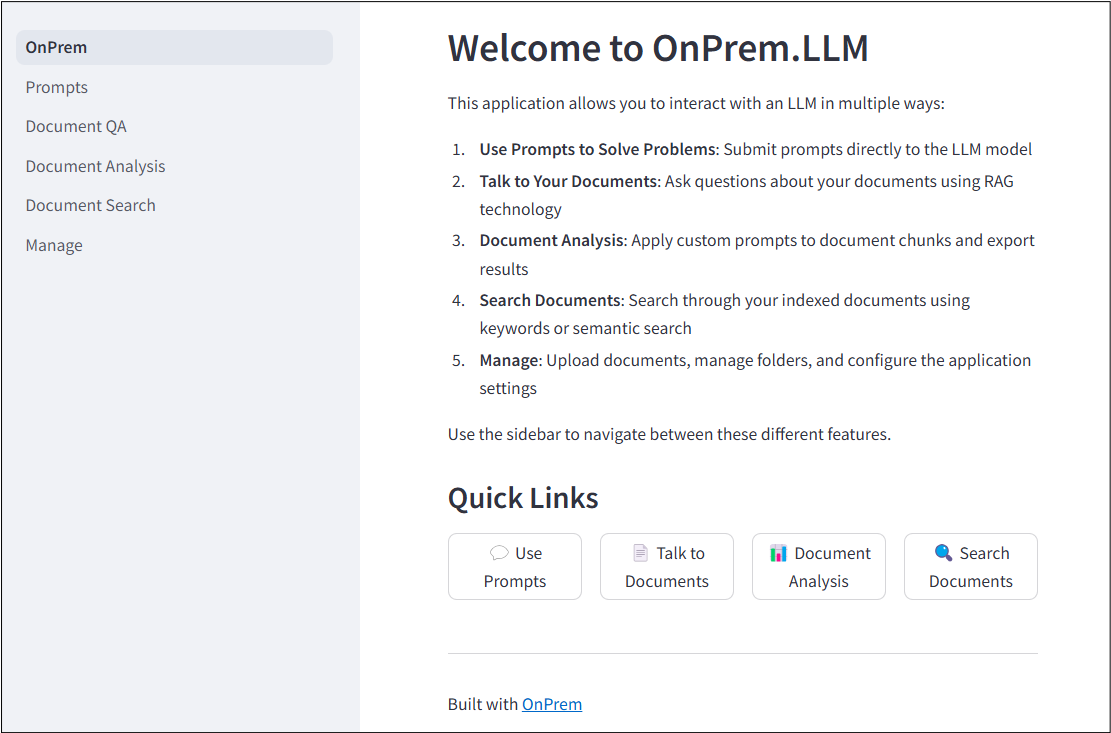
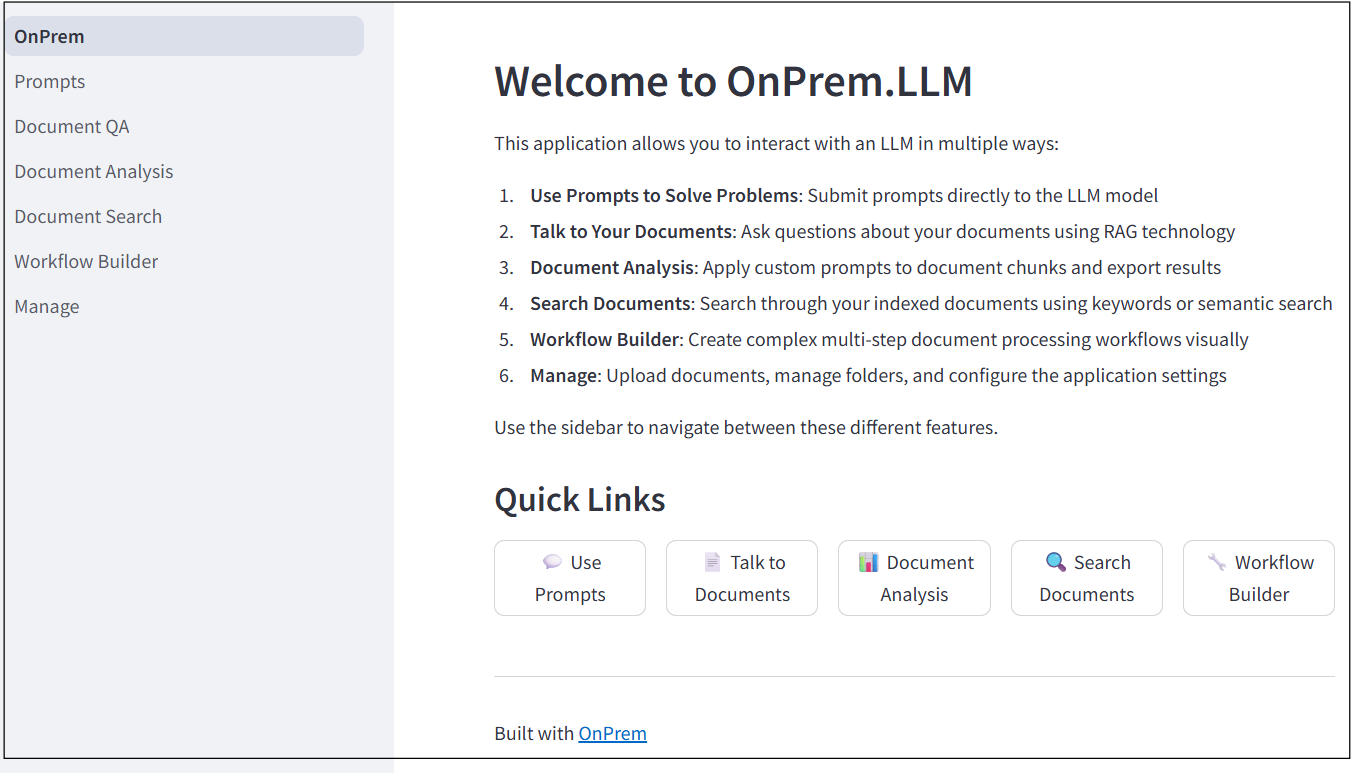
consolidate node menu and update screenshots with workflow builder

diff --git a/onprem/app/pages/5_Workflow_Builder.py b/onprem/app/pages/5_Workflow_Builder.py
@@ -1098,12 +1098,34 @@ def main():
             st.info("✅ Workflow is complete! No additional nodes can be added.")
             st.write("Exporter nodes are terminal - they cannot connect to other nodes.")
         else:
-            # Node selection
-            selected_category = st.selectbox("Node Category", list(available_nodes.keys()))
-            selected_node_type = st.selectbox(
-                "Node Type", 
-                list(available_nodes[selected_category].keys())
-            )
+            # Create consolidated node options with category prefixes
+            # Maintain specific ordering: Query → Document Transformers → Processors → Aggregators
+            category_order = ['Query', 'Document Transformers', 'Processors', 'Aggregators']
+            
+            consolidated_options = []
+            node_mapping = {}  # Map display name to (category, node_type)
+            
+            # Build options in the specified order
+            for category in category_order:
+                if category in available_nodes:
+                    for node_type, node_data in available_nodes[category].items():
+                        display_name = f"{category}: {node_type}"
+                        consolidated_options.append(display_name)
+                        node_mapping[display_name] = (category, node_type)
+            
+            # Add any remaining categories not in the specified order
+            for category in available_nodes.keys():
+                if category not in category_order:
+                    for node_type, node_data in available_nodes[category].items():
+                        display_name = f"{category}: {node_type}"
+                        consolidated_options.append(display_name)
+                        node_mapping[display_name] = (category, node_type)
+            
+            # Single node selection
+            selected_option = st.selectbox("Available Nodes", consolidated_options)
+            
+            # Get the actual category and node type
+            selected_category, selected_node_type = node_mapping[selected_option]
             
             # Show node description
             node_data = available_nodes[selected_category][selected_node_type]
@@ -1255,7 +1277,7 @@ def main():
                     'type': query_type,
                     'category': 'Query',
                     'data': all_nodes['Query'][query_type],
-                    'config': {'query': 'project report', 'limit': 5, 'search_type': 'semantic'}
+                    'config': {'query': '"generative AI"', 'limit': 5, 'search_type': 'semantic'}
                 },
                 {
                     'id': 'summarize',
